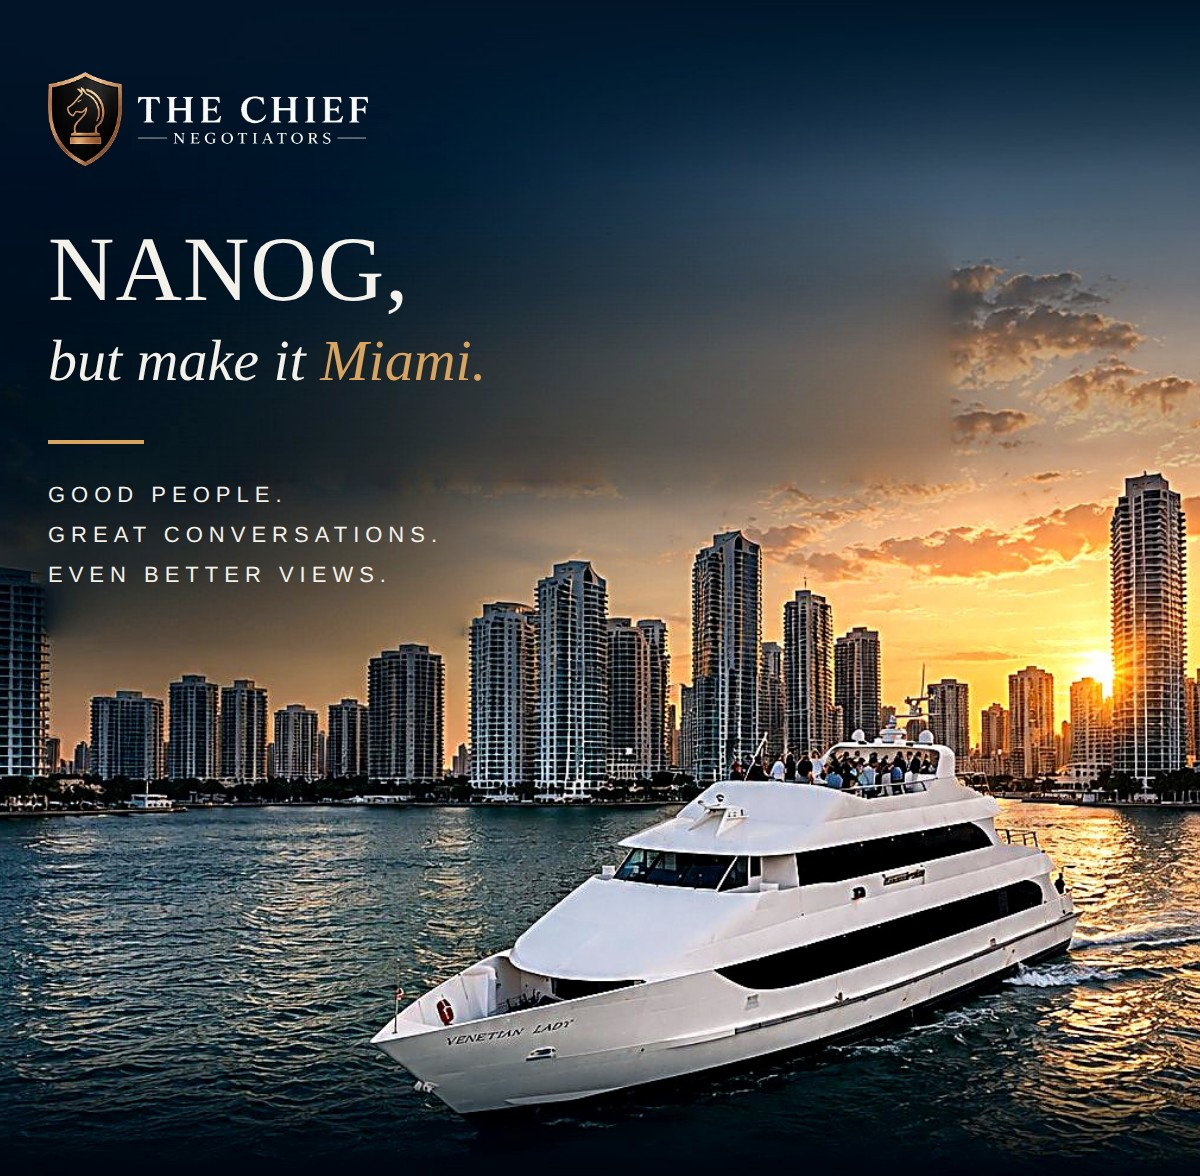
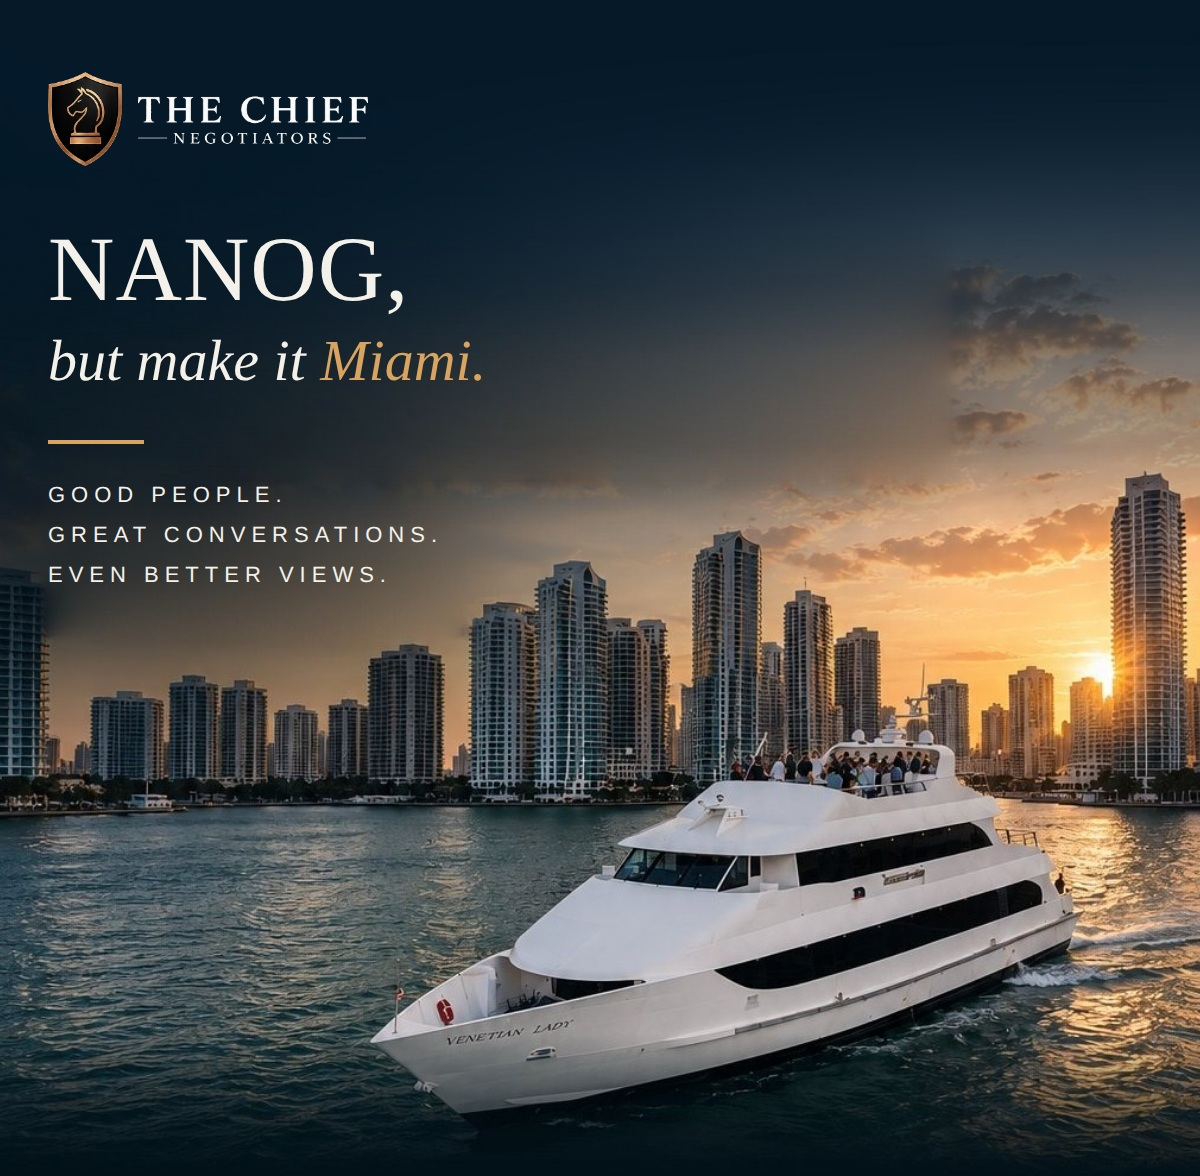
Crisp pristine hero (clean navy-fade top, no processing artifacts); refresh invite
Claude-Session: https://claude.ai/code/session_01CFfj54dg6tyejLSayjyEJD

Changed region(s): [[0.0, 0.0612, 1.0, 0.9796], [0.4625, 0.9184, 0.4933, 0.949], [0.3392, 0.9184, 0.37, 0.949]]

diff --git a/assets/email/_founding-invite-cache.html b/assets/email/_founding-invite-cache.html
@@ -1,0 +1,86 @@
+<!doctype html>
+<html lang="en"><head>
+<meta charset="utf-8">
+<meta name="viewport" content="width=device-width,initial-scale=1">
+<meta name="x-apple-disable-message-reformatting">
+<meta name="color-scheme" content="dark">
+<meta name="supported-color-schemes" content="dark">
+<title>The Chief Negotiators — Yacht Party</title>
+<style>
+  body{margin:0;padding:0;background-color:#021118;}
+  /* Type system
+     Display  : Didone serif  (baked into hero; live for headings/sign-off)
+     Label    : letter-spaced sans caps  (eyebrows, city, schedule, highlight)
+     Body     : Georgia serif, editorial  (invitation copy + note) */
+  .serif{font-family:Georgia,'Times New Roman',Times,serif;}
+  .disp{font-family:Didot,'Didot LT STD','Bodoni 72','Bodoni Moda','Bodoni MT',Georgia,'Times New Roman',serif;}
+  .sans{font-family:'Helvetica Neue',Helvetica,Arial,sans-serif;}
+  @media (max-width:620px){
+    .px{padding-left:26px!important;padding-right:26px!important}
+    .t-title{font-size:27px!important;line-height:34px!important}
+    .t-body{font-size:16px!important;line-height:27px!important}
+    .t-venue{font-size:29px!important;line-height:35px!important}
+  }
+</style>
+</head>
+<body style="margin:0;padding:0;background-color:#021118;">
+<div style="display:none;max-height:0;overflow:hidden;opacity:0;mso-hide:all;">Sunday, Oct 18 · Boarding 6:30 PM · The Venetian Lady, Miami. By invitation only.</div>
+<table role="presentation" width="100%" cellpadding="0" cellspacing="0" border="0" bgcolor="#021118" style="background-color:#021118;"><tr><td align="center" style="padding:0;">
+<table role="presentation" width="100%" cellpadding="0" cellspacing="0" border="0" bgcolor="#021118" style="max-width:600px;background-color:#021118;">
+
+  <!-- HERO (single flattened image: photo + lockup + headline + tagline) -->
+  <tr><td style="padding:0;font-size:0;line-height:0;">
+    <img src="https://cncrm.thechiefnegotiators.com/assets/email/event-hero-flat.jpg?v=1018p" width="600" alt="NANOG, but make it Miami — you're invited aboard The Chief Negotiators Yacht Party on The Venetian Lady in Miami" style="display:block;width:100%;max-width:600px;height:auto;border:0;outline:none;">
+  </td></tr>
+
+  <!-- INVITATION -->
+  <tr><td class="px" align="center" style="padding:44px 48px 0;text-align:center;">
+    <div class="sans" style="font-size:12px;letter-spacing:5px;text-transform:uppercase;color:#8FA6AE;line-height:20px;">You&rsquo;re invited aboard</div>
+    <div class="disp t-title" style="font-style:italic;font-size:34px;line-height:42px;color:#D9A45F;padding-top:14px;">The Chief Negotiators<br>Yacht Party</div>
+    <div class="serif t-body" style="font-size:17px;line-height:29px;color:#C7D0D6;padding-top:20px;">Six months ago I founded The Chief Negotiators &mdash; and to celebrate, I&rsquo;m throwing a yacht party in Miami to kick off NANOG&nbsp;98.</div>
+    <div class="serif t-body" style="font-size:17px;line-height:29px;color:#C7D0D6;padding-top:16px;">Come aboard <em>The Venetian Lady</em> for a sunset cruise through the skyline &mdash; an open bar, hors d&rsquo;oeuvres and a DJ on deck, and the unofficial start to NANOG week. This one&rsquo;s for the whole community: new partners, old and new NANOG friends, and everyone who has helped us get off the ground.</div>
+  </td></tr>
+
+  <!-- gold flourish -->
+  <tr><td align="center" style="padding:34px 0 0;"><div style="width:44px;height:1px;line-height:1px;font-size:0;background-color:#D9A45F;">&nbsp;</div></td></tr>
+
+  <!-- DETAILS -->
+  <tr><td class="px" align="center" style="padding:30px 48px 0;text-align:center;">
+    <div class="disp t-venue" style="font-size:34px;line-height:40px;color:#F4F1EA;">The Venetian Lady</div>
+    <div class="sans" style="font-size:12px;letter-spacing:4px;text-transform:uppercase;color:#8FA6AE;line-height:18px;padding-top:9px;">Miami, Florida</div>
+    <div class="serif" style="font-size:19px;line-height:26px;color:#F4F1EA;padding-top:20px;">Sunday, October 18, 2026</div>
+    <div class="sans" style="font-size:13px;letter-spacing:1px;line-height:22px;color:#9BA6AC;padding-top:9px;">Boarding&nbsp;6:30&nbsp;PM<span style="color:#D9A45F;">&nbsp;&nbsp;&middot;&nbsp;&nbsp;</span>Cruising&nbsp;7:00&ndash;10:30&nbsp;PM</div>
+    <div class="sans" style="font-size:12px;letter-spacing:4px;text-transform:uppercase;color:#D9A45F;line-height:18px;padding-top:18px;font-weight:bold;">Open bar all evening</div>
+  </td></tr>
+
+  <!-- divider -->
+  <tr><td style="padding:36px 48px 0;"><div style="height:1px;line-height:1px;font-size:0;background-color:#16303C;">&nbsp;</div></td></tr>
+
+  <!-- RSVP -->
+  <tr><td align="center" style="padding:38px 24px 0;">
+    <table role="presentation" cellpadding="0" cellspacing="0" border="0" style="border-collapse:separate;"><tr>
+      <td align="center" bgcolor="#D9A45F" style="background-color:#D9A45F;border-radius:2px;">
+        <a href="https://cncrm.thechiefnegotiators.com/rsvp.html?e=venetian-lady-2026-10-18&first={{first_name}}&last={{last_name}}&email={{email}}&company={{company}}" target="_blank" class="sans" style="display:block;padding:18px 66px;font-size:14px;font-weight:bold;letter-spacing:5px;text-transform:uppercase;text-decoration:none;color:#021118;">RSVP</a>
+      </td>
+    </tr></table>
+  </td></tr>
+
+  <!-- NANOG register -->
+  <tr><td align="center" style="padding:26px 24px 0;text-align:center;">
+    <a href="https://nanog.org/events/nanog-98/register/" target="_blank" class="sans" style="font-size:14px;letter-spacing:1px;text-decoration:none;"><span style="color:#D9A45F;border-bottom:1px solid #6B5427;padding-bottom:4px;">Register for NANOG&nbsp;98&nbsp;&nbsp;&rarr;</span></a>
+  </td></tr>
+  <tr><td class="px" align="center" style="padding:22px 56px 0;text-align:center;">
+    <div class="serif" style="font-style:italic;font-size:15px;line-height:25px;color:#8B969C;">Attending NANOG or not, you&rsquo;re welcome aboard &mdash; and if you can make the meeting, I&rsquo;d love for you to register and join us for the week.</div>
+  </td></tr>
+
+  <!-- SIGN-OFF -->
+  <tr><td class="px" align="center" style="padding:40px 48px 46px;text-align:center;">
+    <div class="disp" style="font-size:23px;line-height:30px;color:#F4F1EA;">See you on the water,</div>
+    <div class="disp" style="font-size:26px;line-height:32px;color:#F4F1EA;padding-top:8px;">Amanda Ferrer</div>
+    <div class="sans" style="font-size:11px;letter-spacing:4px;text-transform:uppercase;color:#7E8990;line-height:18px;padding-top:12px;">Founder&nbsp;&middot;&nbsp;The Chief Negotiators</div>
+  </td></tr>
+
+</table>
+<table role="presentation" width="100%" cellpadding="0" cellspacing="0" border="0" style="max-width:600px;"><tr><td align="center" class="sans" style="padding:22px 20px 30px;font-size:11px;line-height:17px;color:#63727A;text-align:center;">The Chief Negotiators&nbsp;&middot;&nbsp;St. Petersburg, Florida<br>You&rsquo;re receiving this because we&rsquo;ve worked together or corresponded. <a href="{{unsubscribe_url}}" style="color:#8B7338;text-decoration:underline;">Unsubscribe</a></td></tr></table>
+</td></tr></table>
+</body></html>
